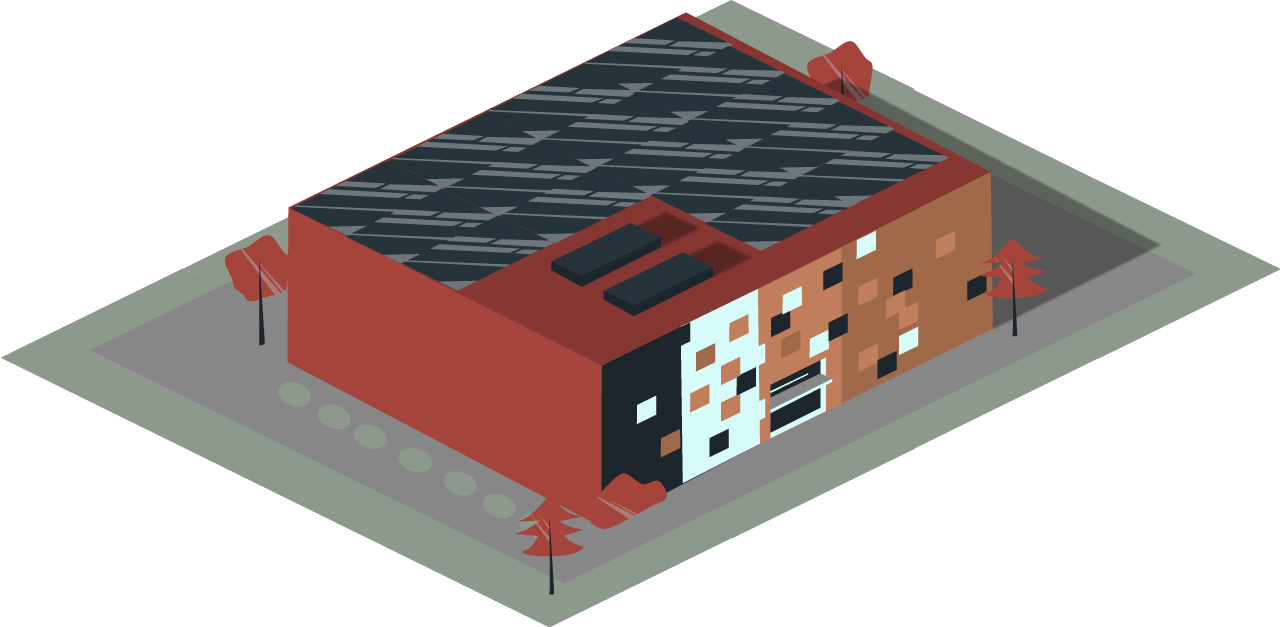
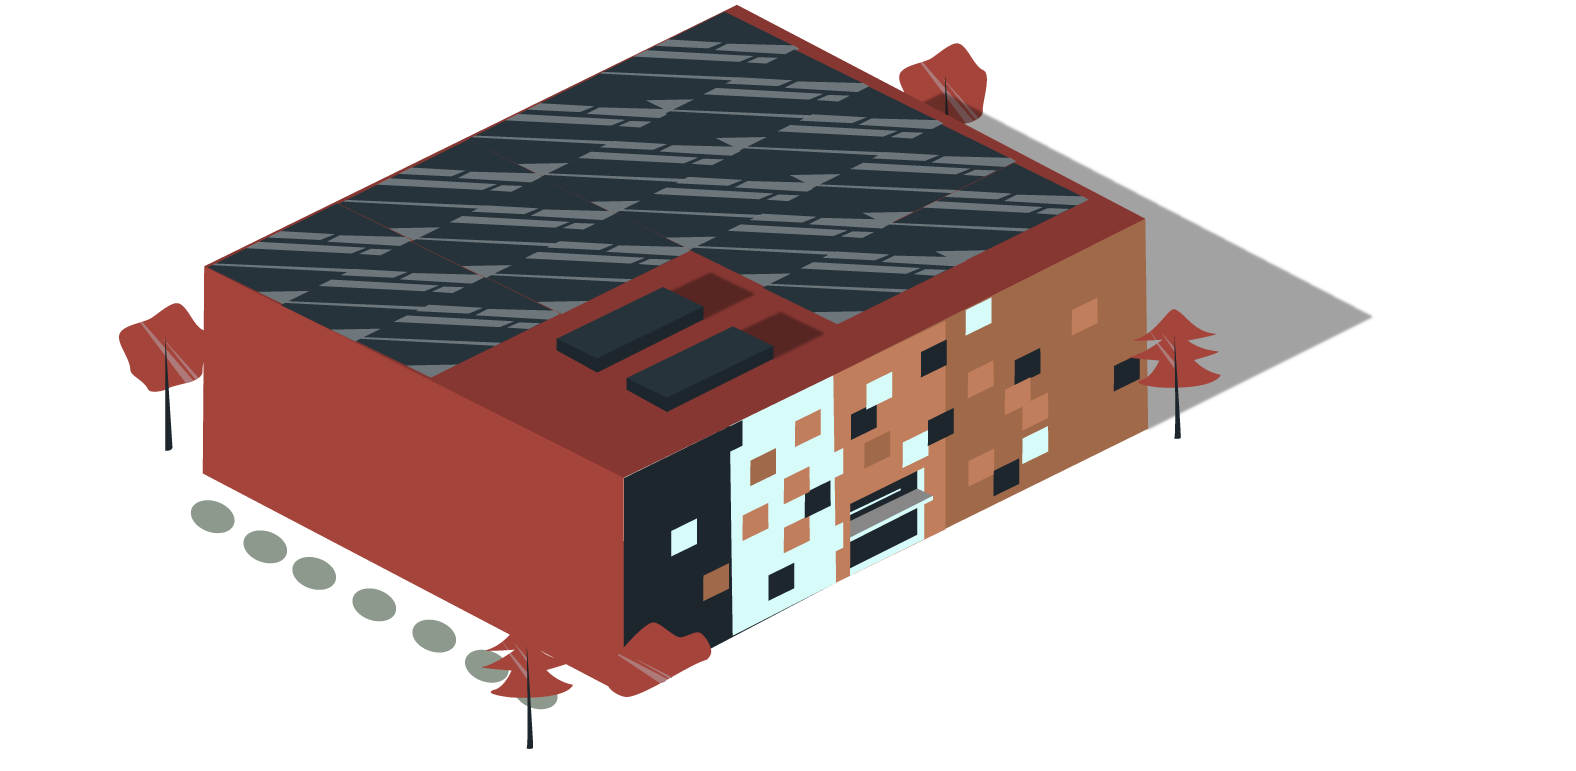
Experimets Positions

diff --git a/src/view/View.java b/src/view/View.java
@@ -1,6 +1,5 @@
 package view;
 
-import javafx.event.EventHandler;
 import javafx.geometry.Point2D;
 import javafx.scene.Scene;
 import javafx.scene.canvas.Canvas;
@@ -8,8 +7,6 @@ import javafx.scene.canvas.GraphicsContext;
 import javafx.scene.control.Label;
 import javafx.scene.image.Image;
 import javafx.scene.input.KeyCode;
-import javafx.scene.input.KeyEvent;
-import javafx.scene.input.ScrollEvent;
 import javafx.scene.layout.BorderPane;
 import javafx.scene.layout.VBox;
 import javafx.scene.text.Font;
@@ -33,7 +30,9 @@ public class View {
     private int mapWidth;
     private int mapDepth;
 
-    private Map<String, Double> imageNameToimageRatio = new HashMap<>();
+    private Map<String, Double> imageNameToImageRatio = new HashMap<>();
+    private Map<String, Double> imageNameToImageHeight = new HashMap<>();
+
 
     // Dies scheint die maximal einstellbare Größe eines Canvas zu sein. Bei größeren Angaben crasht das Programm
     private Canvas canvas = new Canvas(1200, 600);
@@ -217,7 +216,9 @@ public class View {
         for(String name : mapping.getImageNames()){
             Image r = getResourceForImageName(name);
             double ratio = r.getHeight() / r.getWidth();
-            imageNameToimageRatio.put(name, ratio);
+            imageNameToImageRatio.put(name, ratio);
+            imageNameToImageHeight.put(name, r.getHeight());
+
         }
     }
 
@@ -226,12 +227,16 @@ public class View {
         if (field.isBuildingOrigin()) {
             String buildingName = field.getBuilding().getBuildingName();
             String name = mapping.getImageNameForBuildingName(buildingName);
-            double ratio = imageNameToimageRatio.get(name);
+            double ratio = imageNameToImageRatio.get(name);
 
 //            double imageWidth = tileWidth + (tileWidth * 0.5) * (building.getDepth() + building.getWidth() - 2);
         double imageWidth = (tileWidth * 0.5) * (building.getDepth() + building.getWidth());
             double imageHeight = imageWidth * ratio;
-            double heightRatio = imageHeight / tileHeight;
+            double heightOfFloorTiles = tileHeightHalf * (building.getDepth() + building.getWidth());
+            double heightAboveFloorTiles =  imageNameToImageHeight.get(name) - heightOfFloorTiles;
+           // double heightRatio = (imageHeight / tileHeight) * ratio * 1.27;
+            double heightRatio = (imageHeight / tileHeight) * ratio * (heightAboveFloorTiles / heightOfFloorTiles);
+            System.out.println("name "+ name +" height "+ (heightAboveFloorTiles / heightOfFloorTiles));
 
             Image im = getResourceForImageName(name, imageWidth, imageHeight);
 

diff --git a/src/model/JSONParser.java b/src/model/JSONParser.java
@@ -145,7 +145,7 @@ public class JSONParser {
                 gamemode = handleContentAsString(map, children[i]);
             }
             // mapModel wird aus eingelesenen Werten erzeugt und dem model hinzugefügt
-            MapModel mapModel = new MapModel(40, 50);
+            MapModel mapModel = new MapModel(20, 25);
             mapModel.setMapgen(mapgen);
             // mapModel und eingelesener gamemode werden dem model hinzugefügt
             model.setMap(mapModel);
